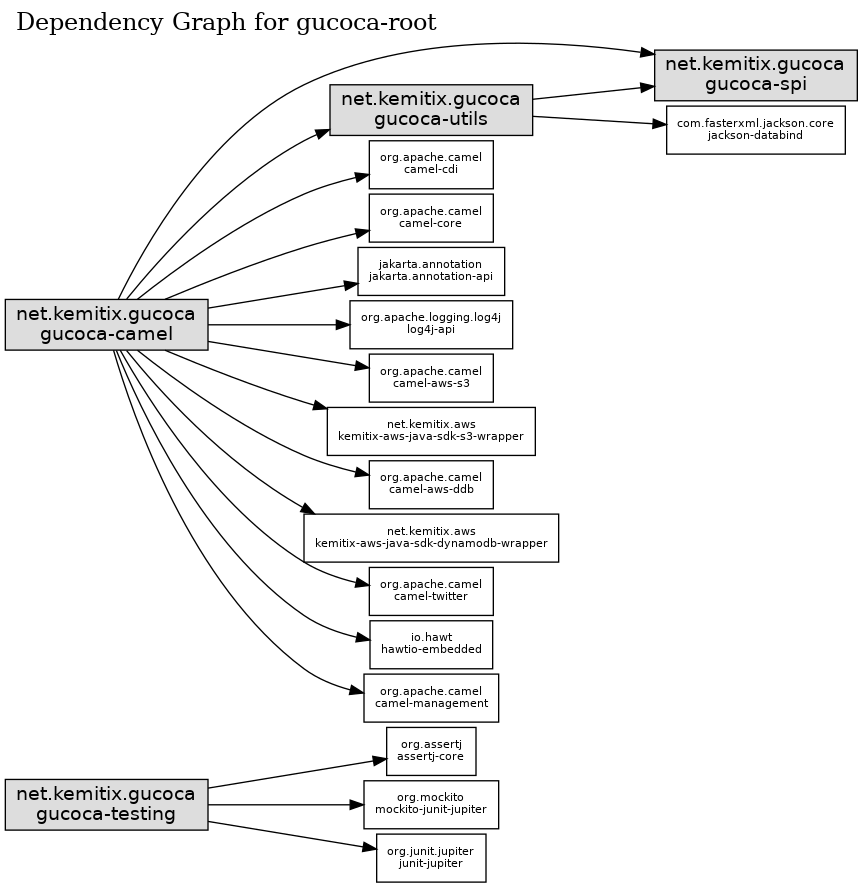
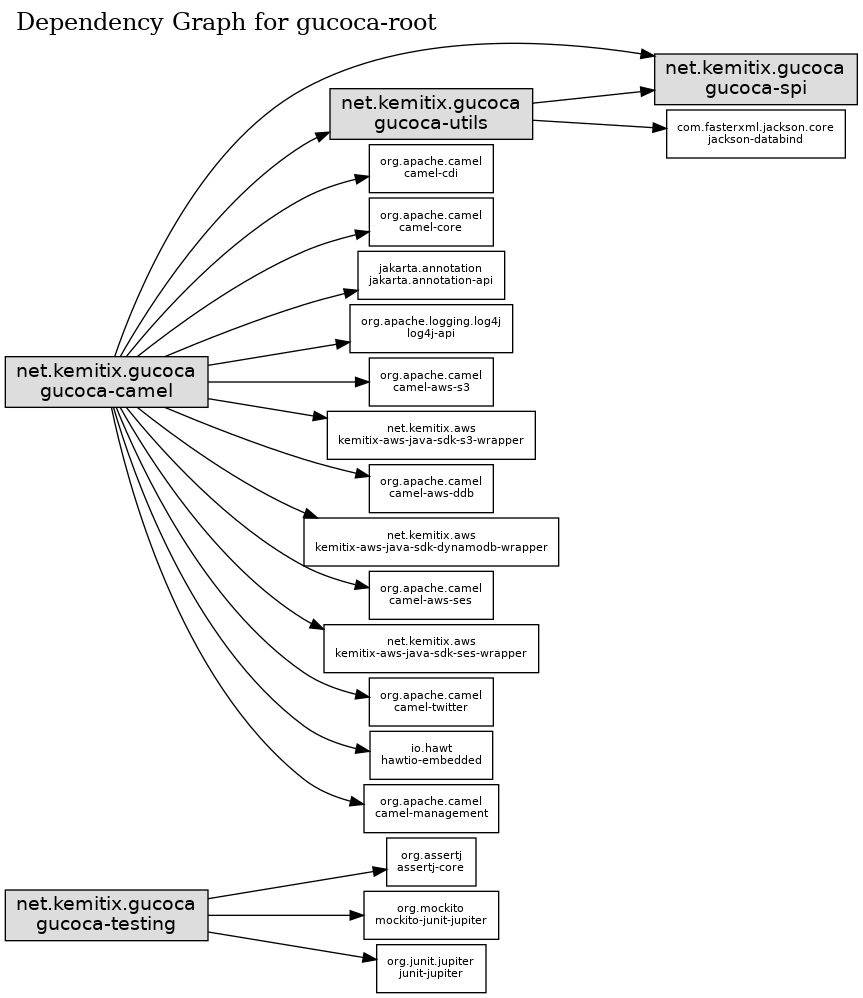
Add AWS SES support (#55)
* aws-ses: add ses dependencies

* aws-ses: initial implementation of a send-email endpoint

* aws-ses: implement processor to compose email

* camel.email: minor tidy

* Revert "camel.email: minor tidy"

This reverts commit e44e60eacb09a5507357ed030e38bbc995d586a5.

* makefile: enable wipe-history to work

* spi: add email sender and recipient

* camel.stories: send email notification about story selection

* Delay sending stories to be tweeted

diff --git a/camel/src/main/java/net/kemitix/gucoca/camel/stories/StoriesRoutes.java b/camel/src/main/java/net/kemitix/gucoca/camel/stories/StoriesRoutes.java
@@ -2,9 +2,12 @@ package net.kemitix.gucoca.camel.stories;
 
 import net.kemitix.gucoca.camel.AggregationUtils;
 import net.kemitix.gucoca.camel.aws.AwsS3;
+import net.kemitix.gucoca.camel.email.SendEmail;
 import net.kemitix.gucoca.camel.twitter.TwitterStoryPublisher;
 import net.kemitix.gucoca.spi.GucocaConfig;
 import net.kemitix.gucoca.spi.Story;
+import org.apache.camel.Message;
+import org.apache.camel.Processor;
 import org.apache.camel.builder.RouteBuilder;
 import org.apache.camel.processor.aggregate.DefaultAggregateController;
 
@@ -21,6 +24,7 @@ class StoriesRoutes
     @Inject StoryAggregator storyAggregator;
     @Inject StorySelector storySelector;
     @Inject StoryCardProcessors storyCards;
+    @Inject SendEmail sendEmail;
 
     @Override
     public void configure() throws Exception {
@@ -60,6 +64,29 @@ class StoriesRoutes
                 .to(awsS3.getObjects())
                 .process(storyCards.addToStory())
                 .log("Story selected ${header.[" + TwitterStoryPublisher.STORY + "].slug}")
+                .process(prepareNotificationEmail())
+                .to(sendEmail.send("story-selector"))
+                .delay(config.getTwitterDelayMillis())
                 .to(TwitterStoryPublisher.PUBLISH);
+    }
+
+    private Processor prepareNotificationEmail() {
+        return exchange -> {
+            Message in = exchange.getIn();
+            Story story = in.getBody(Story.class);
+            sendEmail
+                    .message(in)
+                    .from(config.getEmailSender())
+                    .to(config.getNotificationRecipient())
+                    .subject(String.format("Story Selected: %s by %s",
+                            story.getTitle(),
+                            story.getAuthor()
+                    ))
+                    .html()
+                    .body(String.format("<h1>Selected: %s by %s</h1>" +
+                                    "This story has been selected to be promoted " +
+                                    "on Twitter.",
+                            story.getTitle(), story.getAuthor()));
+        };
     }
 }

diff --git a/camel/src/main/java/net/kemitix/gucoca/camel/email/SendEmailMessageImpl.java b/camel/src/main/java/net/kemitix/gucoca/camel/email/SendEmailMessageImpl.java
@@ -1,0 +1,48 @@
+package net.kemitix.gucoca.camel.email;
+
+import lombok.RequiredArgsConstructor;
+import org.apache.camel.Message;
+import org.apache.camel.component.aws.ses.SesConstants;
+
+import java.util.List;
+
+@RequiredArgsConstructor
+class SendEmailMessageImpl implements SendEmailMessage {
+
+    private final Message in;
+
+    @Override
+    public SendEmailMessage from(String from) {
+        in.setHeader(SesConstants.FROM, from);
+        return this;
+    }
+
+    @Override
+    public SendEmailMessage to(List<String> to) {
+        in.setHeader(SesConstants.TO, to);
+        return this;
+    }
+
+    @Override
+    public SendEmailMessage replyTo(List<String> replyTo) {
+        in.setHeader(SesConstants.REPLY_TO_ADDRESSES, replyTo);
+        return this;
+    }
+
+    @Override
+    public SendEmailMessage subject(String subject) {
+        in.setHeader(SesConstants.SUBJECT, subject);
+        return this;
+    }
+
+    @Override
+    public SendEmailMessage html() {
+        in.setHeader(SesConstants.HTML_EMAIL, true);
+        return this;
+    }
+
+    @Override
+    public void body(String body) {
+        in.setBody(body, String.class);
+    }
+}

diff --git a/camel/src/main/java/net/kemitix/gucoca/camel/email/SendEmailRoute.java b/camel/src/main/java/net/kemitix/gucoca/camel/email/SendEmailRoute.java
@@ -1,0 +1,35 @@
+package net.kemitix.gucoca.camel.email;
+
+import net.kemitix.gucoca.camel.aws.AwsSES;
+import org.apache.camel.Message;
+import org.apache.camel.builder.RouteBuilder;
+import org.apache.camel.component.aws.ses.SesConstants;
+
+import javax.inject.Inject;
+
+class SendEmailRoute
+        extends RouteBuilder
+        implements SendEmail{
+
+    @Inject AwsSES awsSES;
+
+    @Override
+    public void configure() {
+        from(SEND)
+                .log(String.format(
+                        "Sending email to ${header.[%s]}: ${header.[%s]}",
+                        SesConstants.TO, SesConstants.SUBJECT))
+                .to(awsSES.send("sender"));
+    }
+
+    @Override
+    public SendEmailMessage message(Message in) {
+        return new SendEmailMessageImpl(in);
+    }
+
+    @Override
+    public String send(String sender) {
+        return awsSES.send(sender);
+    }
+
+}

diff --git a/camel/src/main/java/net/kemitix/gucoca/camel/aws/AmazonClientProducer.java b/camel/src/main/java/net/kemitix/gucoca/camel/aws/AmazonClientProducer.java
@@ -4,6 +4,8 @@ import com.amazonaws.services.dynamodbv2.AmazonDynamoDB;
 import com.amazonaws.services.dynamodbv2.AmazonDynamoDBClientBuilder;
 import com.amazonaws.services.s3.AmazonS3;
 import com.amazonaws.services.s3.AmazonS3ClientBuilder;
+import com.amazonaws.services.simpleemail.AmazonSimpleEmailServiceAsync;
+import com.amazonaws.services.simpleemail.AmazonSimpleEmailServiceAsyncClientBuilder;
 
 import javax.enterprise.context.ApplicationScoped;
 import javax.enterprise.inject.Produces;
@@ -23,4 +25,11 @@ class AmazonClientProducer {
     public AmazonDynamoDB amazonDynamoDb() {
         return AmazonDynamoDBClientBuilder.defaultClient();
     }
+
+    @Produces
+    @Named("amazonSESClient")
+    public AmazonSimpleEmailServiceAsync amazonSES() {
+        return AmazonSimpleEmailServiceAsyncClientBuilder.defaultClient();
+    }
+
 }

diff --git a/camel/src/main/java/net/kemitix/gucoca/camel/email/SendEmailMessage.java b/camel/src/main/java/net/kemitix/gucoca/camel/email/SendEmailMessage.java
@@ -1,0 +1,21 @@
+package net.kemitix.gucoca.camel.email;
+
+import java.util.Collections;
+import java.util.List;
+
+public interface SendEmailMessage {
+
+    SendEmailMessage from(String from);
+    SendEmailMessage to(List<String> to);
+    default SendEmailMessage to(String to) {
+        return to(Collections.singletonList(to));
+    }
+    SendEmailMessage replyTo(List<String> replyTo);
+    default SendEmailMessage replyTo(String replyTo) {
+        return replyTo(Collections.singletonList(replyTo));
+    }
+    SendEmailMessage subject(String subject);
+    SendEmailMessage html();
+    void body(String body);
+
+}

diff --git a/camel/src/main/java/net/kemitix/gucoca/camel/aws/AwsSESImpl.java b/camel/src/main/java/net/kemitix/gucoca/camel/aws/AwsSESImpl.java
@@ -1,0 +1,22 @@
+package net.kemitix.gucoca.camel.aws;
+
+import net.kemitix.gucoca.spi.GucocaConfig;
+
+import javax.inject.Inject;
+import java.util.Arrays;
+import java.util.List;
+
+class AwsSESImpl implements AwsSES {
+
+    @Inject GucocaConfig config;
+
+    @Override
+    public String send(String from) {
+        List<String> options = Arrays.asList(
+                "amazonSESClient=#amazonSESClient",
+                "region=" + config.getAwsRegion()
+        );
+        return String.format("aws-ses:%s?%s", from,
+                String.join("&", options));
+    }
+}

diff --git a/spi/src/main/java/net/kemitix/gucoca/spi/GucocaConfig.java b/spi/src/main/java/net/kemitix/gucoca/spi/GucocaConfig.java
@@ -18,9 +18,12 @@ public class GucocaConfig {
     private String storyFilename;
     private String dDbTableName;
     private boolean twitterEnabled;
+    private long twitterDelayMillis;
     private String twitterApiKey;
     private String twitterApiSecretKey;
     private String twitterAccessToken;
     private String twitterAccessTokenSecret;
     private int noRepeatDays;
+    private String notificationRecipient;
+    private String emailSender;
 }

diff --git a/camel/src/main/java/net/kemitix/gucoca/camel/email/SendEmail.java b/camel/src/main/java/net/kemitix/gucoca/camel/email/SendEmail.java
@@ -1,0 +1,13 @@
+package net.kemitix.gucoca.camel.email;
+
+import org.apache.camel.Message;
+
+public interface SendEmail {
+
+    String SEND = "direct:Gucoca.SendEmail.Send";
+
+    SendEmailMessage message(Message in);
+
+    String send(String sender);
+
+}

diff --git a/camel/src/main/java/net/kemitix/gucoca/camel/aws/AwsSES.java b/camel/src/main/java/net/kemitix/gucoca/camel/aws/AwsSES.java
@@ -1,0 +1,8 @@
+package net.kemitix.gucoca.camel.aws;
+
+
+public interface AwsSES {
+
+    String send(String from);
+
+}
